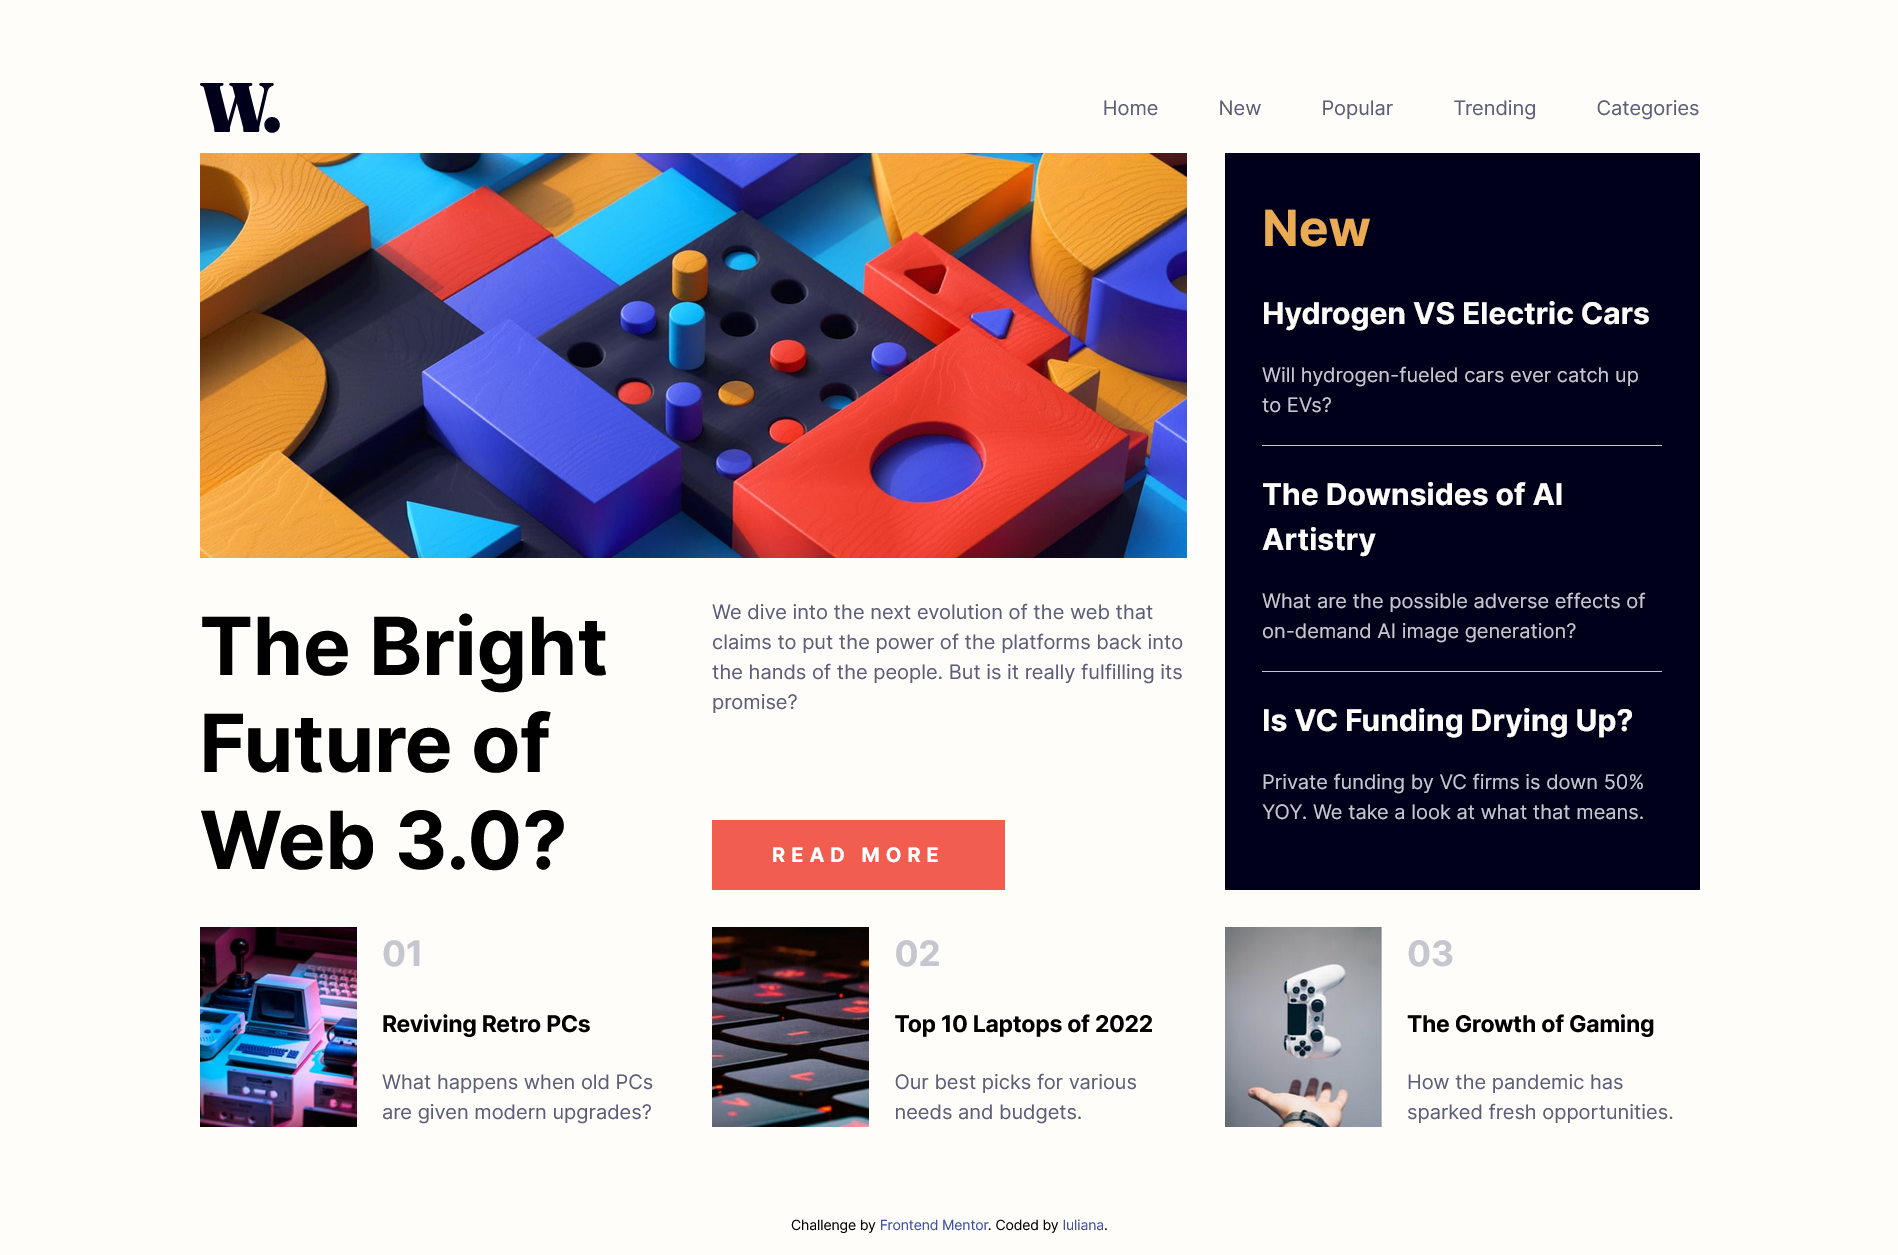
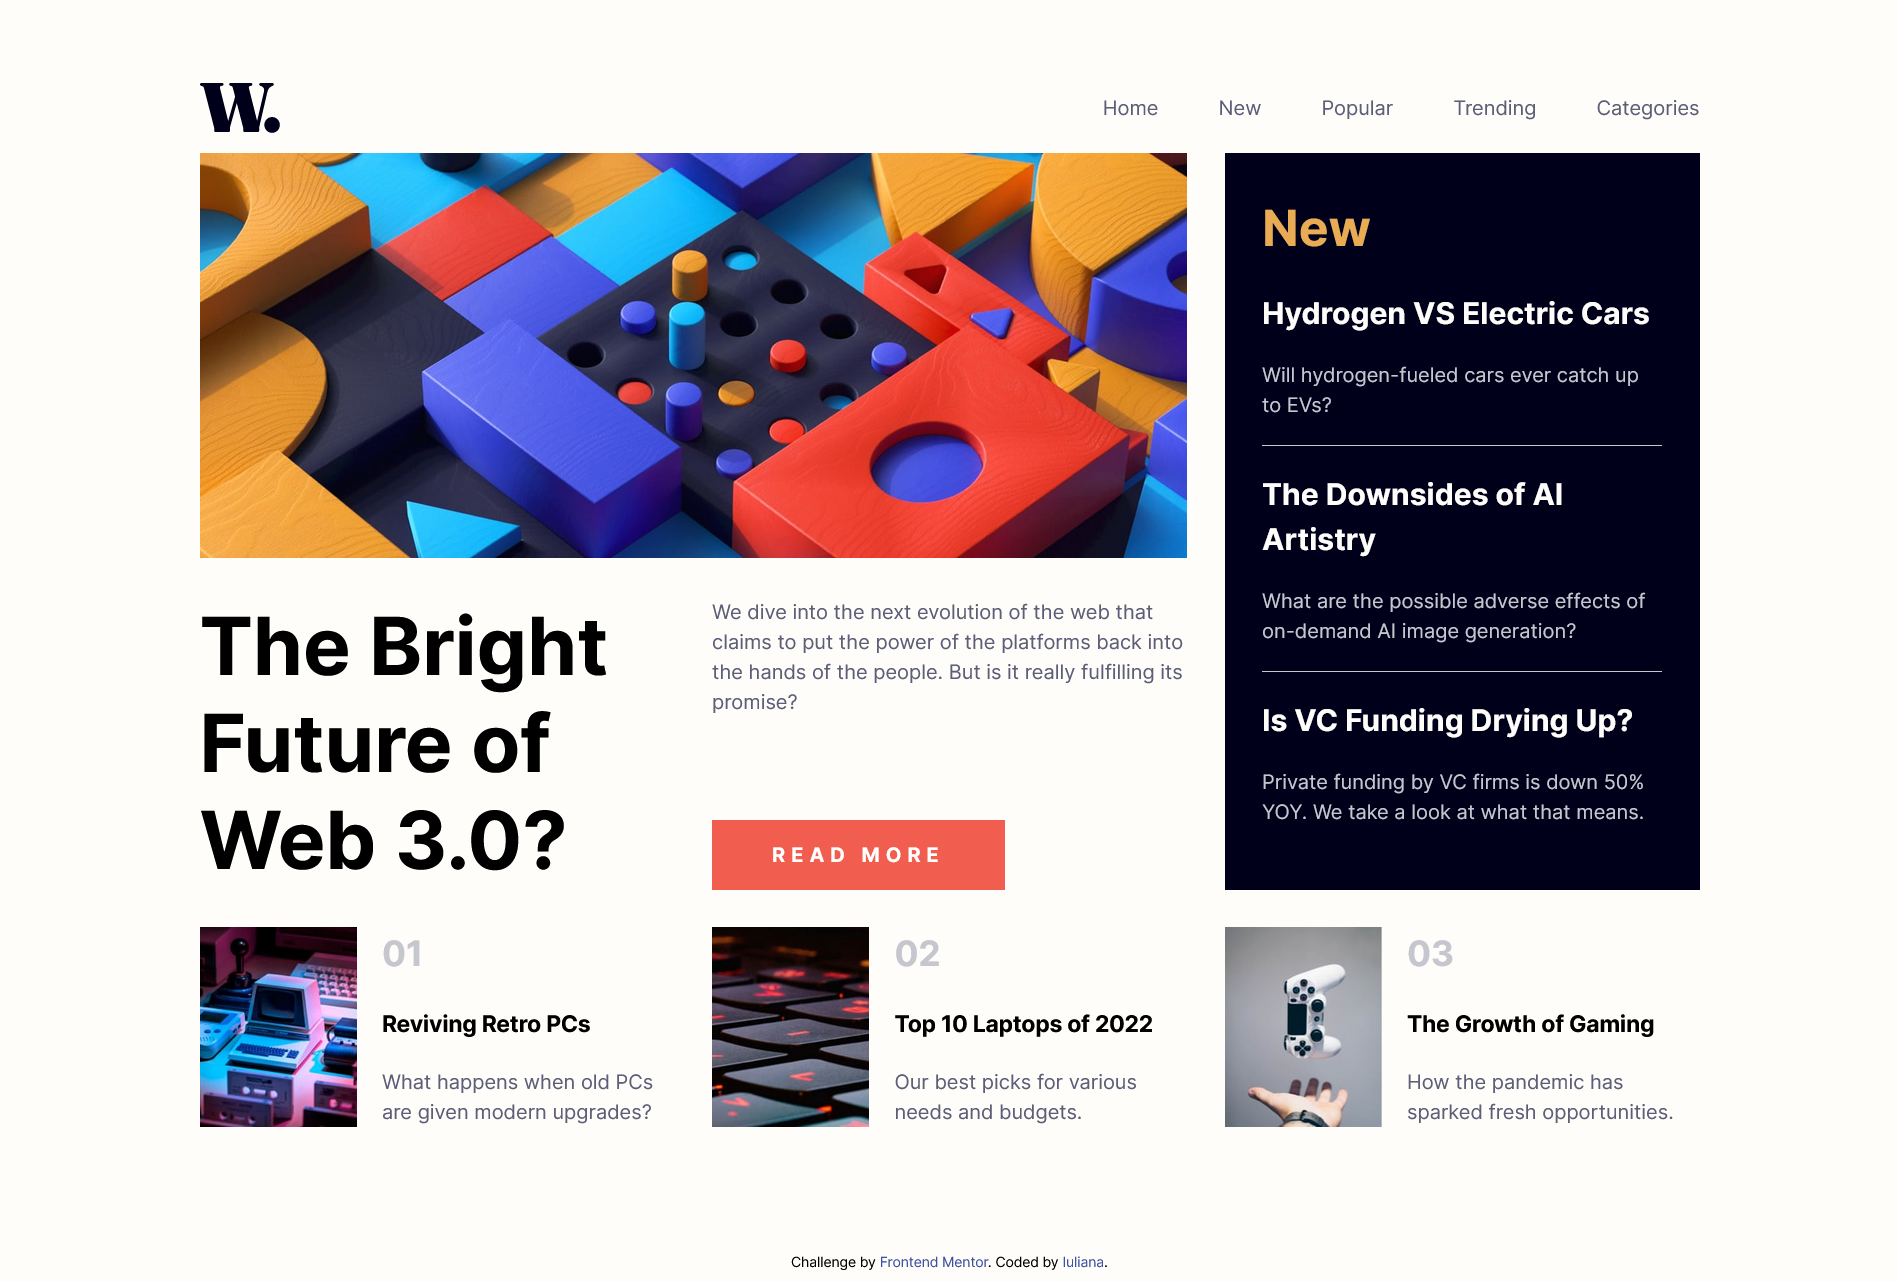
updated transitions and screenshot

diff --git a/css/styles.css b/css/styles.css
@@ -5,11 +5,6 @@
 
 /* Typography */
 
-html {
-  font-family: "Inter";
-  font-size: 1rem;
-}
-
 h1 {
   font-size: 4rem;
   line-height: normal;
@@ -39,10 +34,11 @@ a {
 
 body {
   background-color: #fefdf9;
+  font-family: "Inter";
 }
 
 .wrapper {
-  margin: 3.125rem auto;
+  margin: 3.125rem auto 5rem auto;
   max-width: 75rem;
 }
 
@@ -113,6 +109,9 @@ a:visited {
   height: 3px;
   margin: 5px auto;
   background-color: #101010;
+}
+
+.transition-all {
   transition: all 0.3s ease-in-out;
 }
 
@@ -226,7 +225,7 @@ aside a:hover {
 .attribution {
   font-size: 11px;
   text-align: center;
-  margin-bottom: 1rem;
+  margin-bottom: 1cap;
 }
 .attribution a {
   color: hsl(228, 45%, 44%);
@@ -252,7 +251,32 @@ aside a:hover {
     margin: 3.125rem 0.625rem;
   }
 
-  header {
+ 
+  .grid-container,
+  nav,
+  ul,
+  main,
+  aside {
+    display: block;
+    margin-bottom: 1.875rem;
+  }
+
+  .main-content-text p,
+  .img-wrapper {
+    margin-bottom: 1.875rem;
+  }
+
+  .img-wrapper,
+  .main-content-title {
+    margin-bottom: 1.25rem;
+  }
+
+  main,
+  aside {
+    margin-bottom: 3.75rem;
+  }
+
+   header {
     align-items: center;
   }
 
@@ -260,14 +284,16 @@ aside a:hover {
     position: fixed;
     right: -100%;
     top: 0;
-    flex-direction: column;
     background-color: #fff;
     width: 70%;
     height: 100%;
     margin-top: 2rem;
     text-align: start;
-    transition: 0.3s;
     box-shadow: 0 10px 27px rgba(0, 0, 0, 0.05);
+  }
+
+  .transition-nav {
+    transition: 0.3s;
   }
 
   .nav-elements.active {
@@ -295,27 +321,4 @@ aside a:hover {
     transform: translateY(-8px) rotate(-45deg);
   }
 
-  .grid-container,
-  nav,
-  ul,
-  main,
-  aside {
-    display: block;
-    margin-bottom: 1.875rem;
-  }
-
-  .main-content-text p,
-  .img-wrapper {
-    margin-bottom: 1.875rem;
-  }
-
-  .img-wrapper,
-  .main-content-title {
-    margin-bottom: 1.25rem;
-  }
-
-  main,
-  aside {
-    margin-bottom: 3.75rem;
-  }
 }

diff --git a/index.html b/index.html
@@ -19,7 +19,7 @@
     <header>
       <img class="logo" src="assets/images/logo.svg" alt="logo">
       <nav>
-        <ul class="nav-elements">
+        <ul class="nav-elements" class="transition-nav">
           <li class="nav-item"><a href="#">Home</a></li>
           <li class="nav-item"><a href="#">New</a></li>
           <li class="nav-item"><a href="#">Popular</a></li>
@@ -28,9 +28,9 @@
         </ul>
       </nav>
       <div class="hamburger">
-        <span class="bar"></span>
-        <span class="bar"></span>
-        <span class="bar"></span>
+        <span class="bar" class="transition-all"></span>
+        <span class="bar" class="transition-all"></span>
+        <span class="bar" class="transition-all"></span>
       </div>
     </header>
 
